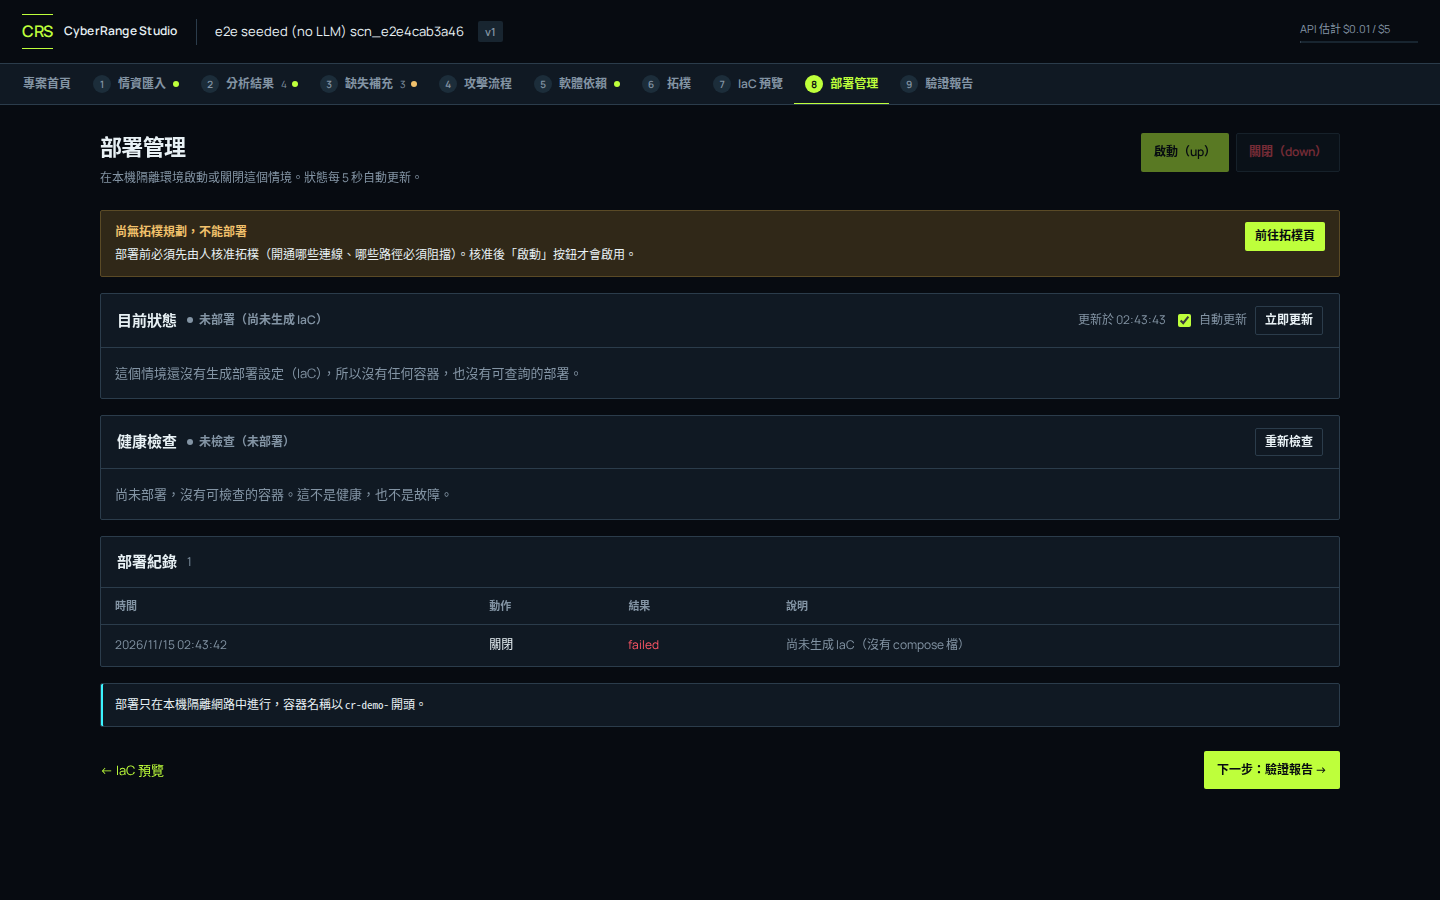
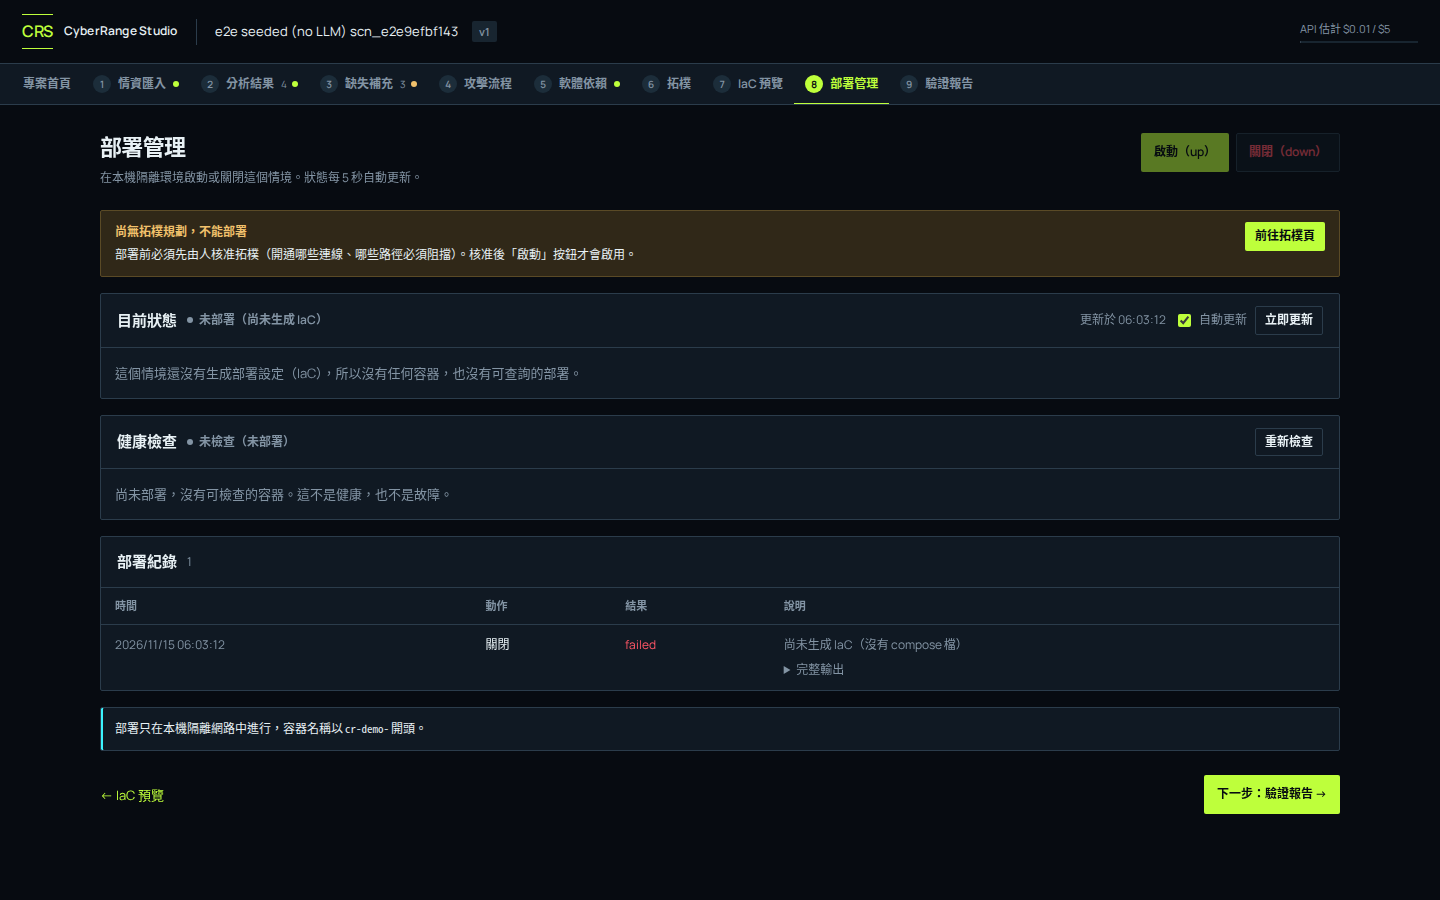
web: honest source/severity labels on missing cards, scroll to top on navigation, expandable deploy record output, health scope note, refit flow on short viewports
- Missing: a known fact is labelled 原文已知 only when the backend marks it supported; backend severity kept on the label
  when all items share it; English-only rationale shown, labelled as the backend's original.
- App: entering another stage starts at the top of the page.
- Deploy: record rows expand to the stored stderr/stdout; note on what 'healthy' does and does not mean.
- Flow: refit after the design-check console toggles on windows <= 800px high.

diff --git a/apps/web/src/pages/MissingPage.tsx b/apps/web/src/pages/MissingPage.tsx
@@ -228,7 +228,7 @@ function makeNamer(ir: ScenarioIR): Namer {
   };
 }
 
-interface KnownFact { field: string; value: string; /** Evidence quote behind this fact, when the backend cited one. */ anchor?: Anchor }
+interface KnownFact { field: string; value: string; /** False when the backend marks the fact as not backed by the source (a program placeholder, an inference). */ fromSource: boolean; /** Evidence quote behind this fact, when the backend cited one. */ anchor?: Anchor }
 const showValue = (v: unknown): string =>
   Array.isArray(v) ? v.map(showValue).filter(Boolean).join("、")
   : typeof v === "boolean" ? (v ? "是" : "否")
@@ -259,7 +259,10 @@ function readKnown(raw: unknown, ir: ScenarioIR): KnownFact[] {
     const anchors = (o ? knownRefs(o, ir) : []).map((r) => evidenceAnchor(r, ir)).filter((a): a is Anchor => !!a);
     // Among the quotes the backend cited, prefer one that literally contains the fact; otherwise the first.
     const needle = value.toLowerCase();
-    return { field, value, anchor: anchors.find((a) => a.quote!.toLowerCase().includes(needle)) ?? anchors[0] };
+    // "原文已知" is a source claim: only make it when the backend says supported, or (older data without a status) cites a quote.
+    const status = o ? str(o.epistemic_status) : "";
+    const fromSource = status ? status === "supported" : anchors.length > 0;
+    return { field, value, fromSource, anchor: anchors.find((a) => a.quote!.toLowerCase().includes(needle)) ?? anchors[0] };
   }).filter((x): x is KnownFact => !!x);
 }
 
@@ -406,6 +409,9 @@ function tierOf(items: MissingItem[], steps: number, backendDistinguishes: boole
     return sev ? { rank: sev === "major" ? 1 : sev === "minor" ? 3 : 2, label: SEVERITY[sev] ?? sev, cls: sev } : { rank: 3, label: "", cls: "" };
   }
   const why = `依影響的步驟數排序（${steps} 個步驟）；分析沒有為各項區分嚴重度。`;
+  // Every item carries the same backend severity: keep the backend's word on the label, use the step count only for ordering.
+  const same = sevs.find(Boolean);
+  if (same && SEVERITY[same]) return { rank: steps >= 5 ? 1 : steps >= 2 ? 2 : 3, label: SEVERITY[same], cls: same, why: `嚴重度來自分析（${same}）；所有項目嚴重度相同，排序改依影響的步驟數（${steps} 個步驟）。` };
   return steps >= 5 ? { rank: 1, label: "優先處理", cls: "major", why } : steps >= 2 ? { rank: 2, label: "重要", cls: "", why } : { rank: 3, label: "次要", cls: "", why };
 }
 
@@ -437,8 +443,8 @@ function buildGroups(ir: ScenarioIR, namer: Namer): Group[] {
     return {
       id: items[0].id, items, affects,
       title: namer.text(merged(items.map(itemTitle))),
-      // The rationale is shown only when it is in Chinese; raw English field names / reasons stay out of the UI.
-      reason: hasCJK(reason) ? namer.text(reason) : "",
+      // An English-only rationale is still shown, labelled as the backend's original, so the card never hides what is being asked.
+      reason: hasCJK(reason) ? namer.text(reason) : reason ? `後端說明（英文原文）：${reason}` : "",
       tier: tierOf(items, steps, distinct),
     };
   });
@@ -531,7 +537,7 @@ function ItemCard({ group, ir, scenarioId, onDone, hasPdf, locate, located }: {
             <div style={{ borderLeft: "2px solid var(--ok, var(--accent))", paddingLeft: 10, display: "flex", flexDirection: "column", gap: 2, alignItems: "flex-start" }}>
               {known.map((k, i) => {
                 const a = usable(k.anchor);
-                const body = <><span className="muted">原文已知：</span>{hasCJK(k.field) ? `${k.field}　` : ""}{k.value}</>;
+                const body = <><span className="muted" title={k.fromSource ? undefined : "這一項是系統為了規劃先放的佔位或推定，後端沒有標示為原文支持"}>{k.fromSource ? "原文已知：" : "系統推定（原文未證實）："}</span>{hasCJK(k.field) ? `${k.field}　` : ""}{k.value}</>;
                 // The row itself is the locate control when the backend cited a quote for this fact.
                 return a ? (
                   <button key={i} className="link" data-testid="known-locate" onClick={() => locate!(a)}

diff --git a/apps/web/src/pages/DeployPage.tsx b/apps/web/src/pages/DeployPage.tsx
@@ -46,6 +46,12 @@ function recordReason(d: any): string | undefined {
   }
   return typeof d.exit_code === "number" && d.exit_code !== 0 ? `結束代碼 ${d.exit_code}` : undefined;
 }
+/** The command output kept with an attempt, verbatim, for the expandable row detail. */
+function recordOutput(d: any): string | undefined {
+  if (!d || typeof d !== "object") return undefined;
+  const parts = [["stderr", d.stderr], ["stdout", d.stdout]].filter(([, v]) => typeof v === "string" && v.trim()).map(([k, v]) => `[${k}]\n${String(v).trim()}`);
+  return parts.length ? parts.join("\n\n") : undefined;
+}
 const REASON_ZH: Record<string, string> = {
   "topology not approved": "拓樸尚未核准",
   "approval stale; topology changed since approval": "核准後拓樸已變更，需重新核准",
@@ -95,7 +101,7 @@ function Body({ ir }: { ir: ScenarioIR }) {
   const noCompose = (v: any) => !!v && typeof v === "object" && v.error === "compose file has not been generated" && !(Array.isArray(v.containers) && v.containers.length);
   const ACTION: Record<string, string> = { up: "啟動", down: "關閉" };
   const rawRecords: any[] = Array.isArray(records.data?.records) ? records.data.records : [];
-  const history = rawRecords.map((r) => ({ id: r.id, action: r.action, state: r.state, at: r.recorded_at, reason: recordReason(r.details) }));
+  const history = rawRecords.map((r) => ({ id: r.id, action: r.action, state: r.state, at: r.recorded_at, reason: recordReason(r.details), output: recordOutput(r.details) }));
   const liveContainers = Array.isArray(containers) ? containers.length : 0;
   // Nothing was ever generated and nothing is running: a down would only fail and add a failed record.
   const downBlock = iacMissing && liveContainers === 0 && state !== "running" ? "沒有已生成的部署設定，也沒有容器在執行，無需關閉" : undefined;
@@ -181,6 +187,11 @@ function Body({ ir }: { ir: ScenarioIR }) {
             : health.data === null || health.data === undefined ? <span className="muted">沒有健康檢查結果。</span>
             : noCompose(health.data) ? <span className="muted" style={{ fontSize: 13 }}>尚未部署，沒有可檢查的容器。這不是健康，也不是故障。</span>
             : <DataView data={health.data} />}
+          {health.data && !noCompose(health.data) && !health.error && (
+            <div className="muted" style={{ fontSize: 12, marginTop: 10 }}>
+              這裡的 healthy 只代表容器都在執行、且沒有容器回報不健康；容器沒有設定健康檢查時不會實際探測服務。服務是否真的可用，請看「驗證報告」。
+            </div>
+          )}
         </div>
       </div>
 
@@ -196,7 +207,15 @@ function Body({ ir }: { ir: ScenarioIR }) {
                   <td className="nowrap muted">{fmtTime(r.at)}</td>
                   <td>{ACTION[r.action] ?? r.action}</td>
                   <td><span className={stateClass(String(r.state))}>{String(r.state)}</span></td>
-                  <td className="muted" style={{ overflowWrap: "anywhere" }}>{r.reason ?? "—"}</td>
+                  <td className="muted" style={{ overflowWrap: "anywhere" }}>
+                    {r.reason ?? "—"}
+                    {r.output && (
+                      <details style={{ marginTop: 4 }}>
+                        <summary style={{ cursor: "pointer", fontSize: 12 }}>完整輸出</summary>
+                        <pre className="mono" style={{ margin: "6px 0 0", maxHeight: 240, whiteSpace: "pre-wrap", overflowWrap: "anywhere" }}>{r.output}</pre>
+                      </details>
+                    )}
+                  </td>
                 </tr>
               ))}
             </tbody>

diff --git a/apps/web/src/pages/FlowPage.tsx b/apps/web/src/pages/FlowPage.tsx
@@ -465,6 +465,7 @@ function Editor({ ir }: { ir: ScenarioIR }) {
   // Objects created in this editing session: only these get an entrance, so loading a scenario never animates.
   const fresh = useRef(new Set<string>());
   const [consoleOpen, setConsoleOpen] = useState(false);
+  const consoleSeen = useRef(false);
   const hostRole = useMemo(() => new Map((ir.hosts ?? []).map((h) => [h.id, h.role])), [ir.hosts]);
   const [edges, setEdges, onEdgesChange] = useEdgesState([]);
   const evById = useMemo(() => new Map((ir.evidence ?? []).map((e): [string, Evidence] => [e.id, e])), [ir.evidence]);
@@ -745,6 +746,15 @@ function Editor({ ir }: { ir: ScenarioIR }) {
     setNodes((ns) => ns.map((n) => ({ ...n, position: auto[n.id] ?? n.position })));
     requestAnimationFrame(() => { if (rf.current) fitAll(rf.current, paneRef.current); });
   };
+
+  // On a short window, opening or closing the design-check console changes the canvas height enough that the
+  // legend / zoom controls would sit on top of the nodes. Refit once the console has finished resizing.
+  useEffect(() => {
+    if (!consoleSeen.current) { consoleSeen.current = true; return; }
+    if (window.innerHeight > 800) return;
+    const t = setTimeout(() => { if (rf.current) fitAll(rf.current, paneRef.current); }, 320);
+    return () => clearTimeout(t);
+  }, [consoleOpen]);
 
   const versions = useLoad(() => api.listVersions(ir.id), [ir.id]);
   const unnamed = actions.filter((a) => !a.name.trim()).length;

diff --git a/apps/web/src/App.tsx b/apps/web/src/App.tsx
@@ -1,5 +1,5 @@
-import { Link, NavLink, Route, Routes } from "react-router-dom";
-import { useEffect, useState, type ReactNode } from "react";
+import { Link, NavLink, Route, Routes, useLocation } from "react-router-dom";
+import { useEffect, useLayoutEffect, useRef, useState, type ReactNode } from "react";
 import { api, type Budget } from "./lib/api";
 import { isPlanApproved } from "./lib/plan";
 import { stageState } from "./lib/stages";
@@ -97,14 +97,23 @@ function StageStrip() {
   );
 }
 
+/** Entering another stage starts at the top of that page, not at the previous page's scroll offset. */
+function useScrollTopOnNavigate() {
+  const ref = useRef<HTMLElement>(null);
+  const { pathname } = useLocation();
+  useLayoutEffect(() => { ref.current?.scrollTo({ top: 0 }); }, [pathname]);
+  return ref;
+}
+
 export function App() {
+  const mainRef = useScrollTopOnNavigate();
   return (
     <ScenarioProvider>
       <TopbarProvider>
         <div className="app-shell">
           <Topbar />
           <StageStrip />
-          <main className="main">
+          <main className="main" ref={mainRef}>
             <Routes>
               {STAGES.map((s) => <Route key={s.key} path={s.path} element={s.element} />)}
               <Route path="*" element={<HomePage />} />
